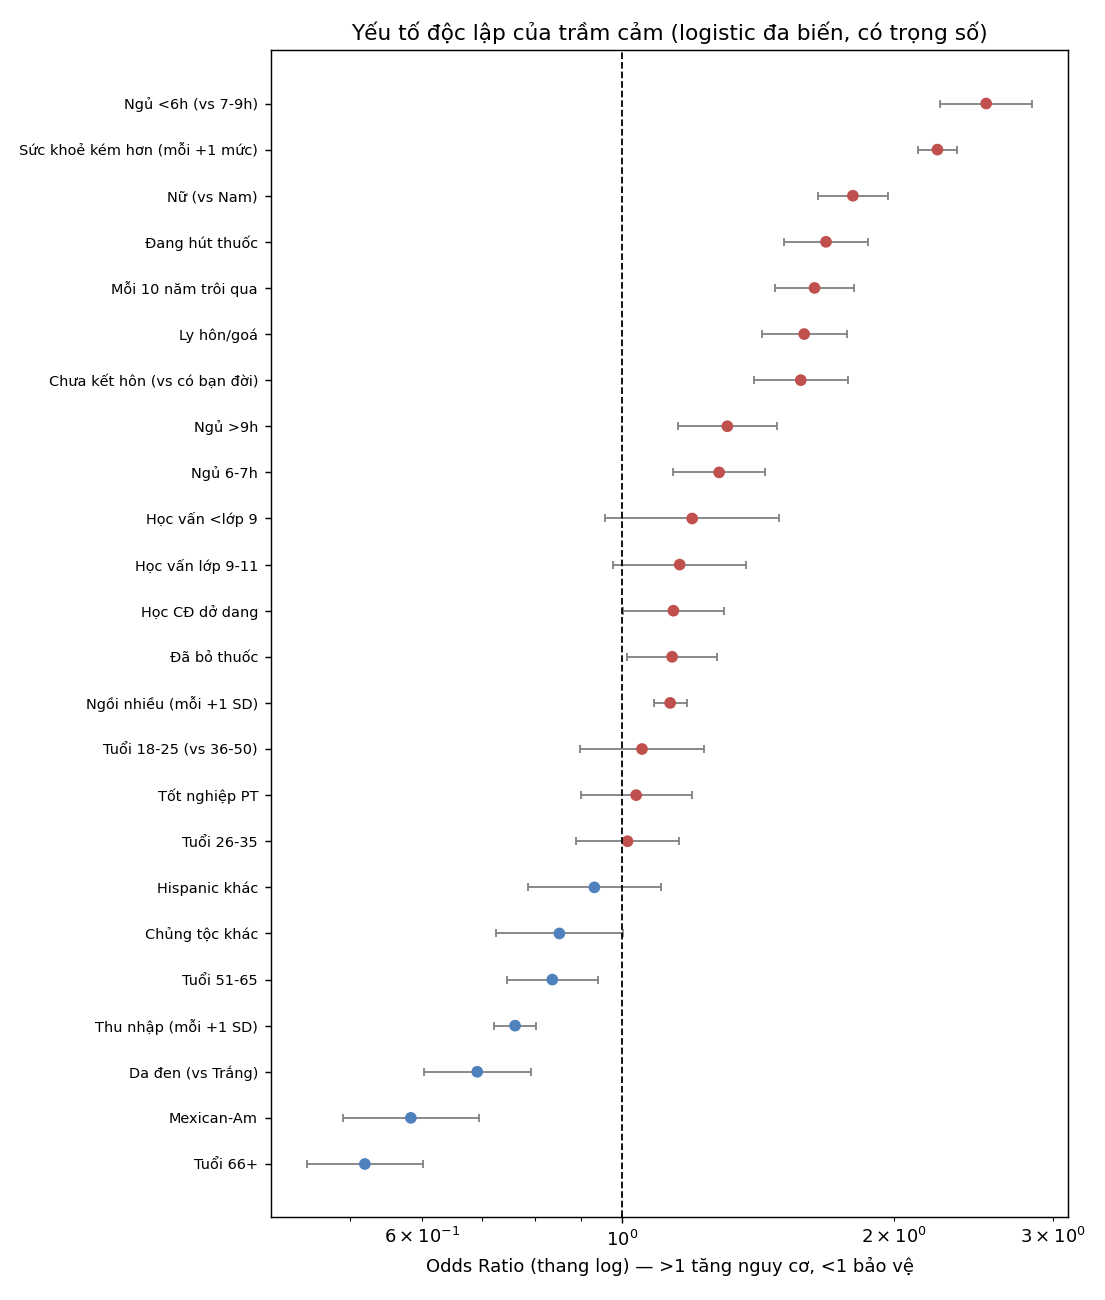
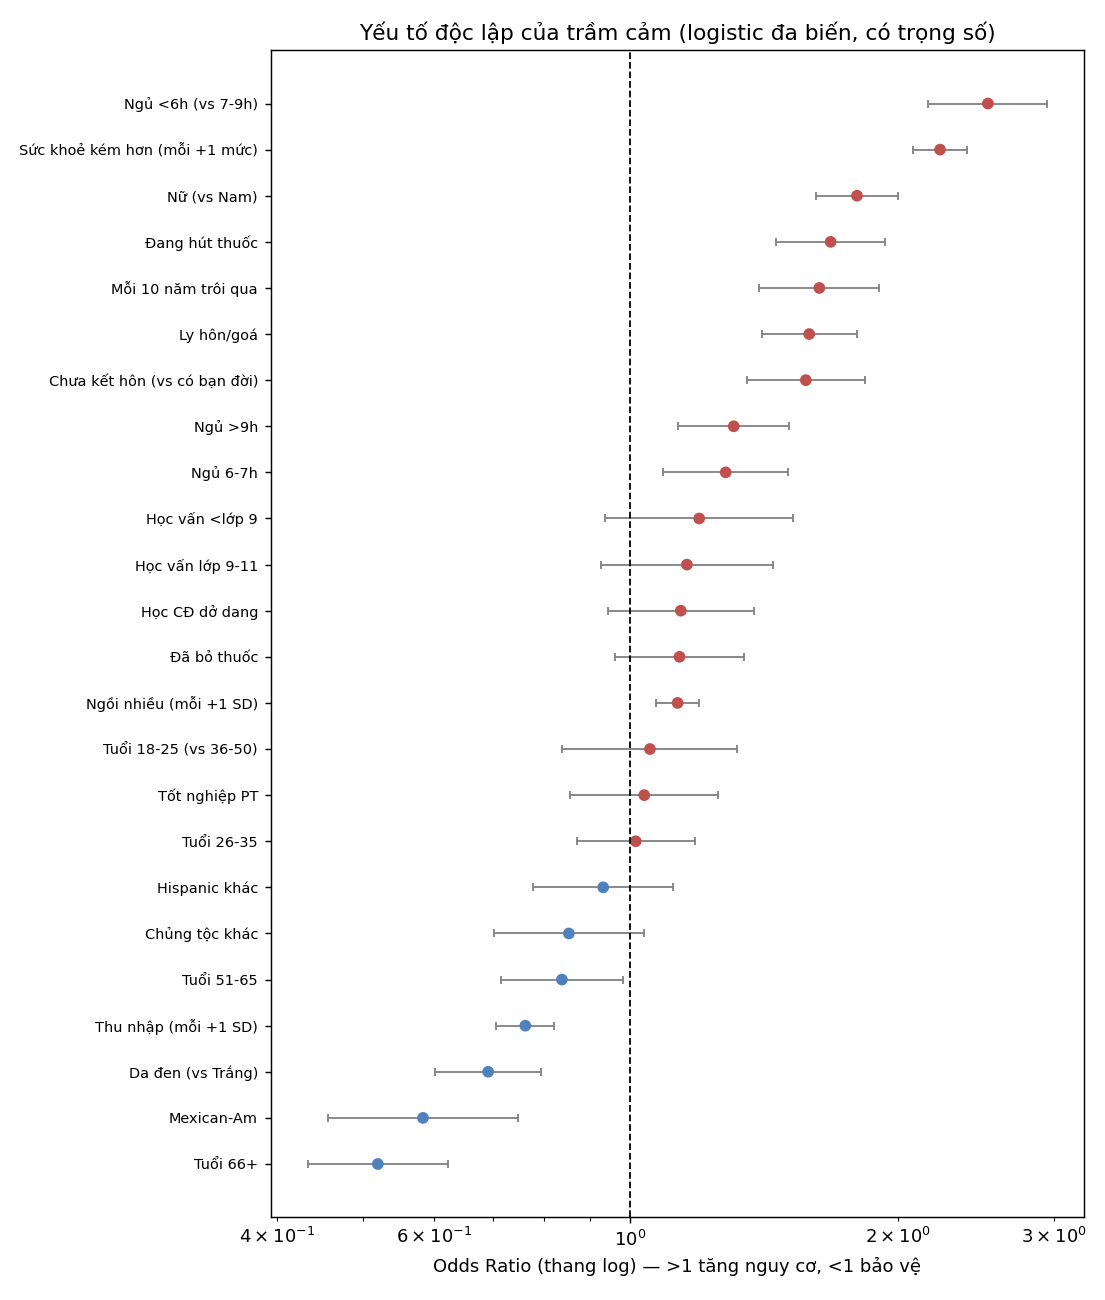
Strengthen rigor: design-based (cluster-robust) CIs and full screening characterization (Se/Sp/PPV/NPV/LR)

diff --git a/scripts/model_nhanes.py b/scripts/model_nhanes.py
@@ -9,9 +9,10 @@ Hai mô hình:
   (1) Mô hình đầy đủ      -> OR cho mọi yếu tố (forest plot + bảng).
   (2) Mô hình tương tác   -> kiểm định "người trẻ tăng nhanh hơn" (age_group × year).
 
-⚠ Lưu ý phương pháp: dùng trọng số khảo sát (chuẩn hoá về cỡ mẫu) cho ước lượng OR.
-Khoảng tin cậy là XẤP XỈ — chưa mô hình hoá đầy đủ thiết kế chọn mẫu phức tạp
-(phân tầng/cụm) của NHANES. Đủ cho mục tiêu khám phá, không dùng để công bố lâm sàng.
+Phương pháp: trọng số khảo sát (chuẩn hoá về cỡ mẫu) cho ước lượng OR, và
+KHOẢNG TIN CẬY DESIGN-BASED — sai số chuẩn cụm-vững theo PSU lồng trong tầng
+(SDMVPSU trong SDMVSTRA), phản ánh thiết kế chọn mẫu phức tạp của NHANES.
+CI vì thế rộng & trung thực hơn so với SE ngây thơ từ freq_weights.
 
 Chạy:  python3 scripts/model_nhanes.py
 """
@@ -59,12 +60,14 @@ def prepare(df: pd.DataFrame) -> pd.DataFrame:
         d[c + "_z"] = (d[c] - d[c].mean()) / d[c].std()
     d["genhealth"] = d["gen_health"]          # 1..5, OR cho mỗi mức xấu hơn
     d["year_c"] = (d["year"] - 2007) / 10.0   # mỗi 10 năm
-    # trọng số chuẩn hoá về cỡ mẫu (giảm tính chống-bảo thủ của SE)
+    # trọng số chuẩn hoá về cỡ mẫu
     cols = ["dep", "age_group", "gender", "edu", "race_l", "marital", "smoke_l",
             "sleep_g", "income_poverty_z", "sedentary_min_z", "genhealth",
-            "year_c", "weight"]
+            "year_c", "weight", "strata", "psu"]
     d = d.dropna(subset=cols)
     d["w"] = d["weight"] * len(d) / d["weight"].sum()
+    # cụm = PSU lồng trong tầng -> dùng cho SE design-based (cụm-vững)
+    d["cluster"] = d["strata"].astype(int) * 100 + d["psu"].astype(int)
     return d
 
 
@@ -72,8 +75,9 @@ def fit_full(d):
     f = ("dep ~ C(age_group) + C(gender) + C(edu) + C(race_l) + C(marital)"
          " + C(smoke_l) + C(sleep_g) + income_poverty_z + sedentary_min_z"
          " + genhealth + year_c")
-    return smf.glm(f, data=d, family=sm.families.Binomial(),
-                   freq_weights=d["w"]).fit()
+    glm = smf.glm(f, data=d, family=sm.families.Binomial(), freq_weights=d["w"])
+    # SE design-based: cụm-vững theo PSU-trong-tầng (đúng thiết kế NHANES, CI không còn xấp xỉ hẹp)
+    return glm.fit(cov_type="cluster", cov_kwds={"groups": d["cluster"].values})
 
 
 PRETTY = {  # rút gọn tên term cho dễ đọc
@@ -134,7 +138,8 @@ def forest_plot(t, path):
 def interaction_test(d):
     """Kiểm định người trẻ tăng nhanh hơn: age_group × year_c."""
     f = "dep ~ C(age_group) * year_c"
-    res = smf.glm(f, data=d, family=sm.families.Binomial(), freq_weights=d["w"]).fit()
+    res = smf.glm(f, data=d, family=sm.families.Binomial(), freq_weights=d["w"]).fit(
+        cov_type="cluster", cov_kwds={"groups": d["cluster"].values})
     rows = []
     for term in res.params.index:
         if ":year_c" in term:

diff --git a/scripts/improve_nhanes.py b/scripts/improve_nhanes.py
@@ -6,7 +6,13 @@ CẢI TIẾN mô hình dự đoán trầm cảm (NHANES) — 3 bước, chống 
 
   (3) Tuning: RandomizedSearchCV cho RF & XGB, chọn model có CV-AUC cao nhất.
   (2) Calibration: CalibratedClassifierCV (isotonic) -> xác suất tin cậy (Brier thấp hơn).
-  (1) Threshold: chọn ngưỡng cho sàng lọc (recall mục tiêu ~0.80) & Youden's J.
+  (1) Threshold: chọn ngưỡng cho sàng lọc (recall mục tiêu ~0.80) & Youden's J,
+      ĐẶC TẢ như một test sàng lọc: độ nhạy/đặc hiệu/PPV/NPV/LR+/LR-.
+
+Đây là công cụ SÀNG LỌC (không phải chẩn đoán): dự đoán nhãn PHQ-9 ≥ 10 — bản thân
+PHQ-9 là thang sàng lọc đã kiểm định (Se≈0.85, Sp≈0.85 cho trầm cảm nặng so với phỏng
+vấn lâm sàng; Levis et al. BMJ 2019). Vì vậy đầu ra cần hiểu là "khả năng sàng lọc dương",
+dùng để PHÂN TẦNG & chuyển tuyến, không thay thế đánh giá của chuyên gia.
 
 Chạy:  python3 scripts/improve_nhanes.py
 """
@@ -48,10 +54,18 @@ def tune(name, X, y):
 
 
 def metrics_at(y, proba, thr):
+    """Chỉ số SÀNG LỌC đầy đủ tại một ngưỡng (đặc tả như một test sàng lọc)."""
     pred = (proba >= thr).astype(int)
-    return {"thr": round(thr, 3), "recall": round(recall_score(y, pred), 3),
-            "precision": round(precision_score(y, pred, zero_division=0), 3),
-            "f1": round(f1_score(y, pred), 3),
+    tn, fp, fn, tp = confusion_matrix(y, pred, labels=[0, 1]).ravel()
+    sens = tp / (tp + fn) if tp + fn else 0          # = recall = độ nhạy
+    spec = tn / (tn + fp) if tn + fp else 0          # độ đặc hiệu
+    ppv = tp / (tp + fp) if tp + fp else 0           # = precision
+    npv = tn / (tn + fn) if tn + fn else 0
+    lr_plus = sens / (1 - spec) if spec < 1 else float("inf")
+    lr_minus = (1 - sens) / spec if spec > 0 else float("inf")
+    return {"thr": round(thr, 3), "sens(recall)": round(sens, 3),
+            "spec": round(spec, 3), "PPV": round(ppv, 3), "NPV": round(npv, 3),
+            "LR+": round(lr_plus, 2), "LR-": round(lr_minus, 2),
             "flag_rate": round(pred.mean(), 3)}
 
 

diff --git a/README.md b/README.md
@@ -186,11 +186,16 @@ Tách **train 60% / valid 20% / test 20%** (chống rò rỉ): tinh chỉnh siê
 - **(2) Calibration** (isotonic): xác suất đầu ra khớp tỉ lệ thực (Brier thấp hơn).
 - **(1) Chọn ngưỡng** — bài học then chốt cho sàng lọc:
 
-| Ngưỡng | Recall | Precision | % bị gắn cờ |
-|--------|:---:|:---:|:---:|
-| Mặc định 0.5 | **0.11** ❌ | 0.52 | 2% |
-| Youden (0.075) | 0.78 | 0.21 | 36% |
-| Recall ≥ 0.80 (0.071) | 0.84 | 0.20 | 41% |
+| Ngưỡng | Sens | Spec | PPV | **NPV** | LR− | % gắn cờ |
+|--------|:---:|:---:|:---:|:---:|:---:|:---:|
+| Mặc định 0.5 | 0.11 ❌ | 0.99 | 0.52 | 0.91 | 0.90 | 2% |
+| Youden (0.075) | 0.78 | 0.69 | 0.21 | **0.97** | 0.32 | 36% |
+| Recall ≥ 0.80 (0.071) | 0.84 | 0.63 | 0.20 | **0.97** | 0.26 | 41% |
+
+**Đặc tả như test sàng lọc:** NPV **0.97** (âm tính loại trừ tốt — đúng vai trò sàng lọc),
+LR− 0.26–0.32. Đầu ra dự đoán nhãn **PHQ-9 ≥ 10** — bản thân PHQ-9 là thang đã kiểm định
+(Se≈0.85, Sp≈0.85 vs phỏng vấn lâm sàng, Levis et al. *BMJ* 2019). Đây là công cụ **sàng lọc
+& phân tầng**, có đặc tính vận hành rõ ràng — **không** thay thế chẩn đoán của chuyên gia.
 
 → Ngưỡng 0.5 **bỏ sót 91% ca** với dữ liệu lệch ~10%; ngưỡng sàng lọc bắt ~80% ca,
 đổi lại cần theo dõi ~40% số người. Đây là đánh đổi đặc trưng của công cụ sàng lọc.
@@ -235,14 +240,18 @@ việc làm (OCQ), bảo hiểm y tế (HIQ). Sau đó đo sức mạnh dự đo
 ## Giới hạn (trung thực)
 
 - **Cắt ngang** (không theo dõi cùng người) → tương quan, **không nhân quả**.
-- Trọng số cho ước lượng đại diện, nhưng **khoảng tin cậy OR là xấp xỉ** (chưa mô hình hoá
-  đầy đủ thiết kế chọn mẫu phức tạp). Học vấn chỉ hỏi người ≥20; thiếu 2019–2020 (COVID).
+- Khoảng tin cậy OR là **design-based** — sai số chuẩn **cụm-vững theo PSU lồng trong tầng**
+  (đúng thiết kế NHANES), nên CI rộng & trung thực, không còn xấp xỉ hẹp. Mọi phát hiện
+  chính vẫn có ý nghĩa thống kê dưới CI nghiêm ngặt này.
+- Học vấn chỉ hỏi người ≥20; thiếu 2019–2020 (COVID).
 - File `.xpt` thô bị `.gitignore` (tải lại bằng `fetch_nhanes.sh`); giữ `nhanes_pooled.csv`.
 
 ---
 
 ## Lưu ý đạo đức
 
-Đây là dữ liệu khảo sát ẩn danh dùng cho mục đích học tập. Các mô hình **không**
-là công cụ chẩn đoán y tế và không nên dùng để ra quyết định về cá nhân thực.
+Đây là dữ liệu khảo sát ẩn danh dùng cho mục đích học tập. Các mô hình là công cụ
+**sàng lọc & phân tầng nguy cơ** (đã đặc tả Se/Sp/PPV/NPV/LR, hiệu chỉnh xác suất,
+giải thích SHAP) — **không phải chẩn đoán y tế** và không thay thế đánh giá của chuyên gia;
+một kết quả dương tính chỉ nên dẫn tới **đánh giá sâu hơn**, không phải kết luận.
 Xem thêm `data/codebook_extension.txt` (quy trình thu thập + an toàn) nếu mở rộng thu dữ liệu mới.
